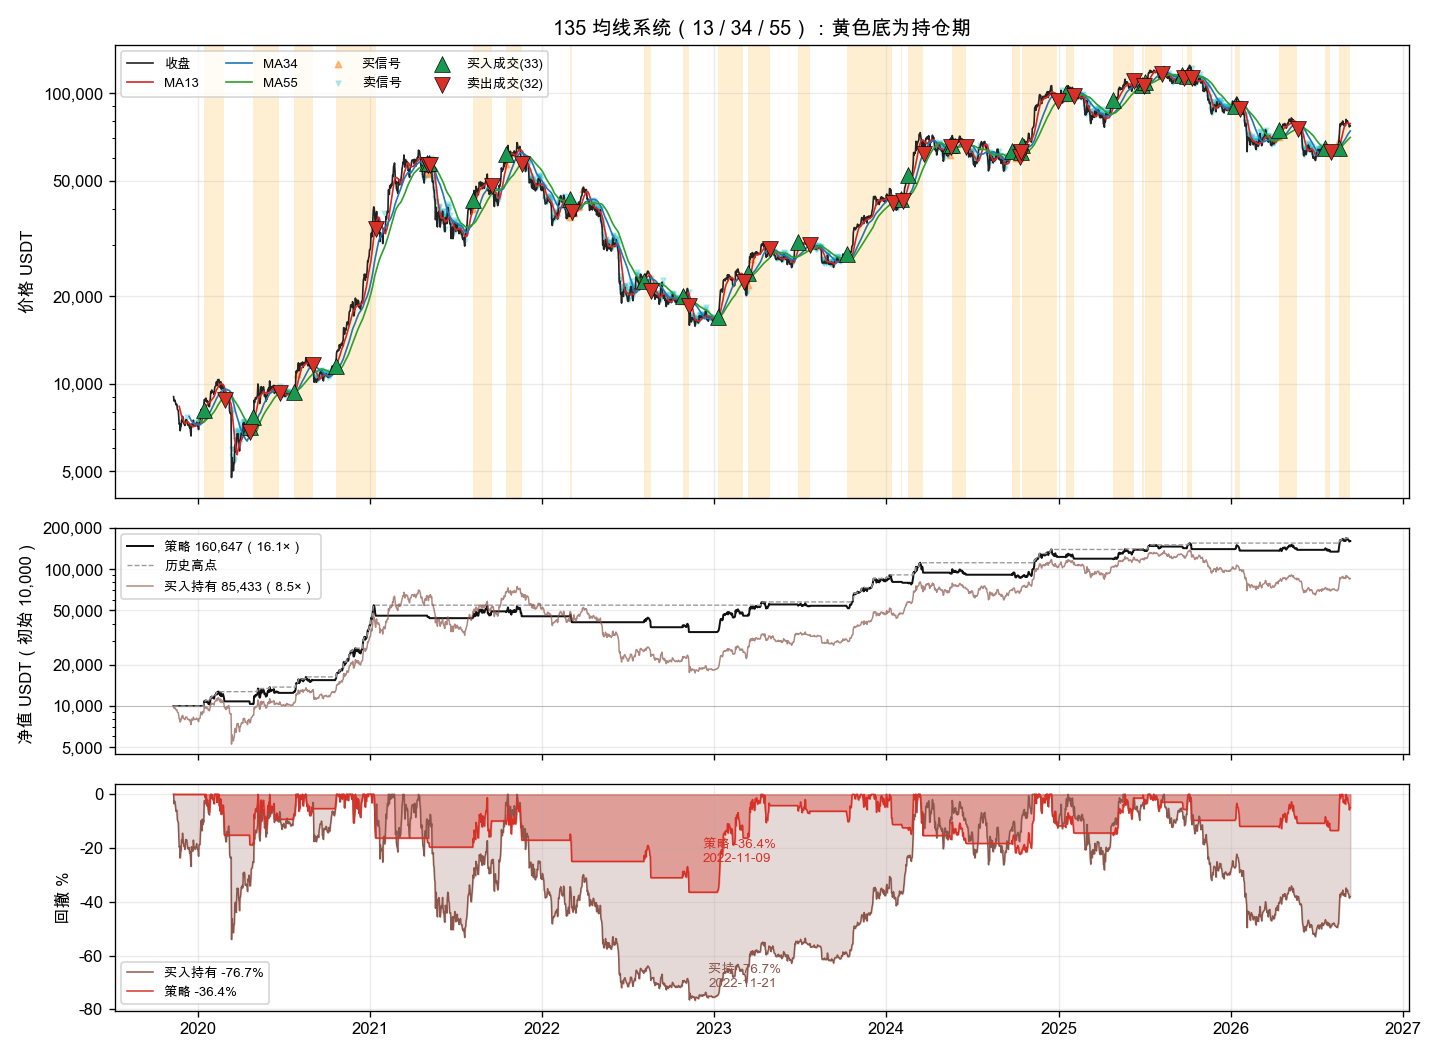
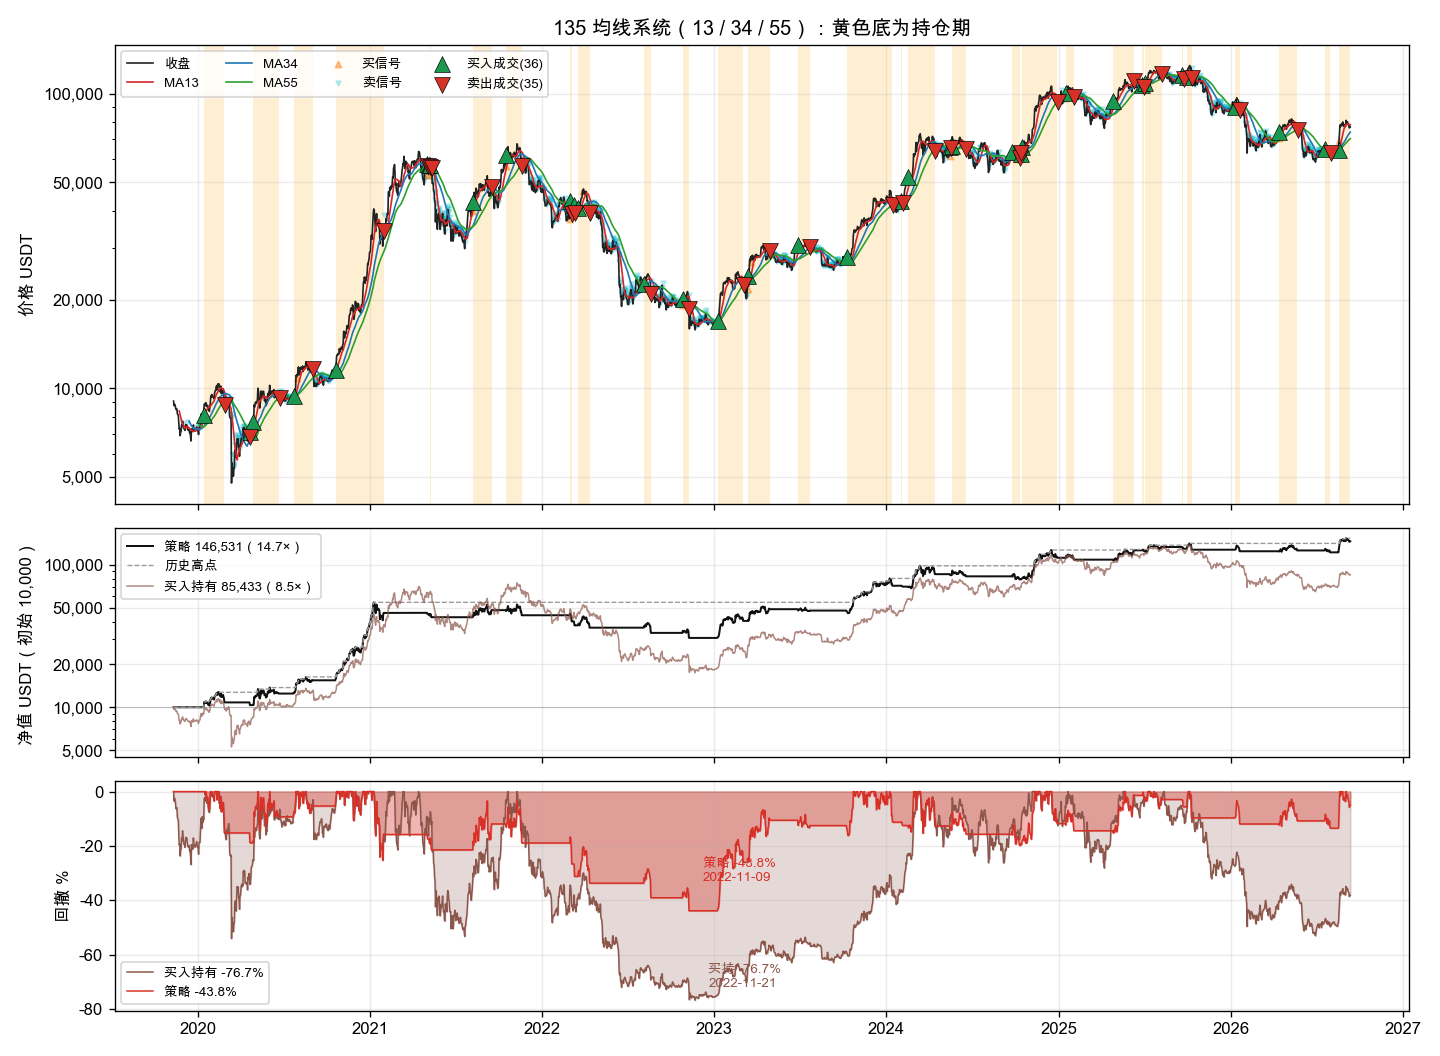
update backtest info

diff --git a/README.md b/README.md
@@ -53,25 +53,39 @@ src/njm135/
 
 默认策略只交易定义最清楚的 8 类：**买**红杏出墙 / 蚂蚁上树 / 黑客点击 / 均线互换 / 梅开二度 / 一阳穿三线；**卖**一阴破三线 / 一箭穿心（另加分道扬镳、跌破 MA13）。同一根 K 线既买又卖时 **卖优先**。
 
-「跌破均线」是**状态**（收盘在均线下方的每一根都算），不是「向下穿越的那一根」。用穿越会漏掉在均线下方建仓的情形（黑客点击回踩就可能如此），那种持仓会一直等不到离场条件。离场均线可切换：`--exit-ma 13|34|55`，默认 13 最贴原书，34/55 拿得更久。
+「跌破均线」是**状态**（收盘在均线下方的每一根都算），不是「向下穿越的那一根」。用穿越会漏掉在均线下方建仓的情形（黑客点击回踩就可能如此），那种持仓会一直等不到离场条件。离场均线可切换：`--exit-ma 13|34|55`。回测 CLI 默认 **MA55 满仓**；13 更贴原书，拿得更短。
 
 蚂蚁上树在 BTC 日线上一次都不触发（连续 5 根小阳 + 均线粘合 <3% 太严），目前等于没启用。
 
-回测与实盘都是：已收盘 K 线出信号，下一根开盘附近成交。CLI 默认仓位比例 `--position-pct 0.3`。`--limit` 会向前翻页，超过 1000 根时会多次请求。
+回测与实盘都是：已收盘 K 线出信号，下一根开盘附近成交。`--limit` 会向前翻页，超过 1000 根时会多次请求。
 
 回测摘要会打印年化、同期买持、夏普、索提诺、卡尔玛、最大回撤（及最长回撤天数）、盈亏比、平均盈亏与平均持仓。夏普按权益日收益、无风险利率 0、加密 24/7（由 K 线间隔推算每年根数）年化。
 
 图分三栏：价格（对数轴，黄色底为持仓期，大三角是**真实成交**，小点是信号）、净值对比买入持有、回撤曲线。注意信号 ≠ 成交：已持仓时的买信号会被忽略。
 
-BTCUSDT 日线 2019-11~2026-09、满仓、手续费 0.1%：
+本地 CSV、满仓、手续费 0.1%。日线样本 2019-11-10→2026-09-12（2499 根）；4h 仅 2024-06 起，1h 仅 2025-07 起，不能和日线直接比。
 
-| 离场线 | 笔数 | 胜率 | 累计 | 年化 | 夏普 | 最大回撤 | PF |
-|--------|------|------|------|------|------|----------|-----|
-| MA13（默认） | 52 | 42.3% | 204% | 17.7% | 0.83 | -41.0% | 2.52 |
-| MA34 | 32 | 46.9% | 1036% | 42.7% | 1.28 | -44.3% | 5.75 |
-| 买入持有 | — | — | 754% | — | — | -77% | — |
+BTCUSDT 期货日线：
 
-4h / 1h 上无论哪条离场线都是亏的（信号过密），日线才有意义。
+| 方案 | 笔数 | 胜率 | 累计 | 年化 | 夏普 | 最大回撤 | 卡尔玛 | PF |
+|------|------|------|------|------|------|----------|--------|-----|
+| MA13 | 52 | 42.3% | 204% | 17.7% | 0.83 | -41.0% | 0.43 | 2.52 |
+| MA34 | 32 | 46.9% | 1036% | 42.7% | 1.28 | -44.3% | 0.96 | 5.75 |
+| MA55（回测默认） | 35 | 40.0% | 1365% | 48.1% | 1.30 | -43.8% | 1.10 | 5.62 |
+| MA55 + 连亏 2 笔冷却 30 根 | 32 | 43.8% | 1567% | 50.9% | 1.36 | -36.0% | 1.41 | 6.67 |
+| 买入持有 | — | — | 754% | — | — | -76.7% | — | — |
+
+同参数在更短周期上（BTCUSDT 期货）：
+
+| 周期 | 方案 | 笔数 | 累计 | 夏普 | 最大回撤 | 同期买持 |
+|------|------|------|------|------|----------|----------|
+| 4h | MA55 | 109 | -16.1% | -0.20 | -48.4% | +14.0% |
+| 4h | MA55 + 冷却 + MA100 | 58 | +41.1% | 0.87 | -19.9% | +14.0% |
+| 1h | MA55 | 225 | -41.3% | -1.93 | -42.8% | -34.7% |
+
+1h 信号过密，冷却也救不回来。4h 单独用 MA55 仍亏，叠冷却和大均线过滤后才略好于买持，样本只有约 2.3 年，当作对照即可。日线才是这套规则站得住的周期。
+
+ETHUSDT 期货日线、MA55 满仓：累计 3248%、夏普 1.25、最大回撤 -62.5%，同期买持 1555%。收益更高、回撤也更深，没有单独调参。
 
 ### 持仓状态离场
 
@@ -116,9 +130,9 @@ pip install -e ".[dev,live]"
 ## 回测（Binance）
 
 ```bash
-python -m njm135 backtest --symbol BTCUSDT --interval 1d --kind futures --limit 1500 --position-pct 0.3
+python -m njm135 backtest --symbol BTCUSDT --interval 1d --kind futures --limit 1500
 
-python -m njm135 backtest --csv data/BTCUSDT_futures_1d.csv --position-pct 1 --exit-ma 55
+python -m njm135 backtest --csv data/BTCUSDT_futures_1d.csv
 ```
 
 现货：`--kind spot`。离线：`--demo` 或 `--csv klines.csv`。
